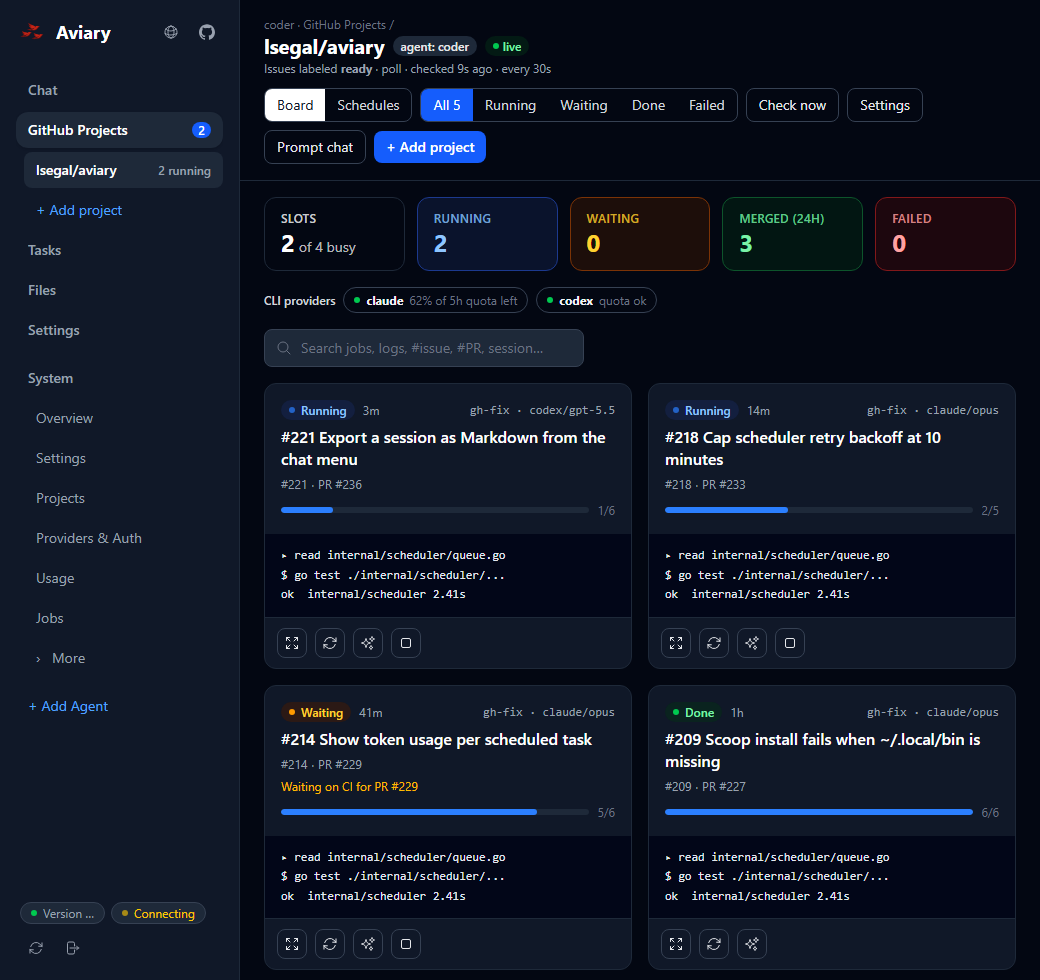
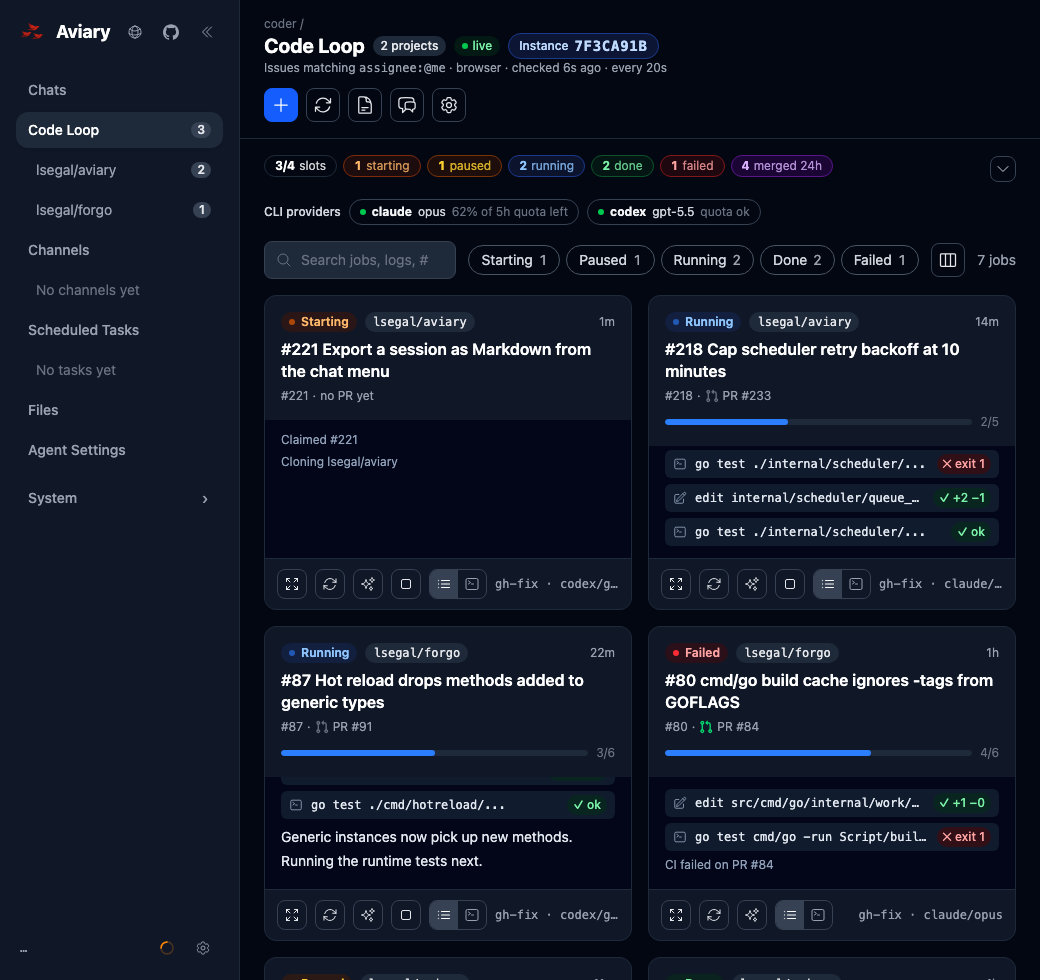
Regenerate Code Loop board and run view screenshots
Update the screenshot generator's Code Loop fixtures to the current API (board states, two public projects, per-job events), skip the setup wizard, allow capturing by name prefix, and document how to run it. Fix the Code Loop showcase text to match current behavior.

Closes #944

diff --git a/docs/site/.vitepress/theme/components/ProjectsPage.vue b/docs/site/.vitepress/theme/components/ProjectsPage.vue
@@ -166,9 +166,10 @@ onBeforeUnmount(() => {
 					<p class="pp-eyebrow">The loop</p>
 					<h2>It keeps going after you stop looking</h2>
 					<p>
-						Aviary polls each watched target through <code>gh</code>, or takes
-						webhook deliveries through an ngrok tunnel, and picks up issues that
-						match the filter, <code>critical</code> and <code>high</code> first.
+						Aviary reads each watched target in its own browser, signed in as
+						you, or through the GitHub API by polling or webhook deliveries, and
+						picks up issues that match the filter (<code>assignee:@me</code>
+						by default), <code>critical</code> and <code>high</code> first.
 						It claims each one with a signed comment so no two instances work
 						the same issue, then dispatches <code>/gh-fix</code> to the first
 						provider with quota left.
@@ -213,15 +214,15 @@ onBeforeUnmount(() => {
 						<span class="tl"><span /><span /><span /></span>
 						<span>localhost:16677 · Code Loop</span>
 					</div>
-					<img :src="screenshot('projects-board')" alt="Code Loop board with running, paused, and merged jobs" />
+					<img :src="screenshot('projects-board')" alt="Code Loop board for two projects with starting, running, paused, done, and failed jobs" />
 				</div>
 				<div>
 					<p class="pp-eyebrow">The board</p>
 					<h2>Watch it work, or don't</h2>
 					<p>
-						Every agent gets a board of its projects' jobs: what is running,
-						what is waiting on CI or a blocker, and what merged. Retry, pause,
-						resume, or stop a job from its card.
+						Every agent gets a board of its projects' jobs: what is starting,
+						running, paused on CI or a blocker, done, or failed. Retry, stop, or
+						summarize a job from its card.
 					</p>
 					<p class="pp-muted">
 						Open a job to follow it from claim to merge: the plan, tool calls,

diff --git a/docs/site/.vitepress/theme/components/LandingHomePage.vue b/docs/site/.vitepress/theme/components/LandingHomePage.vue
@@ -87,15 +87,15 @@ const projectsItems: ShowcaseItem[] = [
 	{
 		title: "The Code Loop board",
 		description:
-			"Every watched repository gets a board of its jobs: what is running, what is up next, and what merged.",
+			"One board for every project an agent watches: what is starting, running, paused on a blocker, done, or failed.",
 		bullets: [
-			"Issues are picked up by label and filter, highest priority first.",
-			"Each job is claimed, so two instances never work the same issue.",
-			"Retry, pause, resume, or stop a job from its card.",
+			"Issues matching your filter, such as assignee:@me, are picked up, critical and high labels first.",
+			"Each job is claimed with a comment on its issue, so two instances never work the same issue.",
+			"Retry, stop, or summarize a job from its card, or open its run view.",
 		],
 		lightSrc: "/screenshots/projects-board-light.png",
 		darkSrc: "/screenshots/projects-board-dark.png",
-		alt: "Code Loop board with running, paused, and merged jobs",
+		alt: "Code Loop board for two projects with starting, running, paused, done, and failed jobs",
 	},
 	{
 		title: "A job's run view",

diff --git a/CONTRIBUTING.md b/CONTRIBUTING.md
@@ -146,6 +146,18 @@ pnpm build            # Builds web assets and compiles the Go binary
 
 Web assets are built to `web/dist/`, copied into `internal/server/webdist/`, and embedded in the Go binary via `go:embed`. The `webdist/` directory is gitignored.
 
+## Regenerating Docs Screenshots
+
+The screenshots on the docs site and the aviary.bot landing page (`docs/site/public/screenshots/*-{light,dark}.png`) are rendered from the web UI against fixture data, not from a live instance. When the UI changes, update the fixtures in `scripts/generate-doc-screenshots.mjs` (for example `projectsFixtures` for the Code Loop board and run view) and regenerate:
+
+```shell
+pnpm exec vite                                   # web dev server, if it isn't already running
+node scripts/generate-doc-screenshots.mjs        # every screenshot, light and dark
+node scripts/generate-doc-screenshots.mjs projects  # only screenshots whose name starts with "projects"
+```
+
+The script mocks every MCP call, so no Go server or credentials are needed and nothing private ends up in an image. Set `DOCS_SCREENSHOT_BASE_URL` when the web dev server isn't at `https://127.0.0.1:5173`. Keep fixture data to public repositories with no tokens or personal details.
+
 ## MCP Connection
 
 Aviary exposes an MCP endpoint you can connect to directly for testing:
